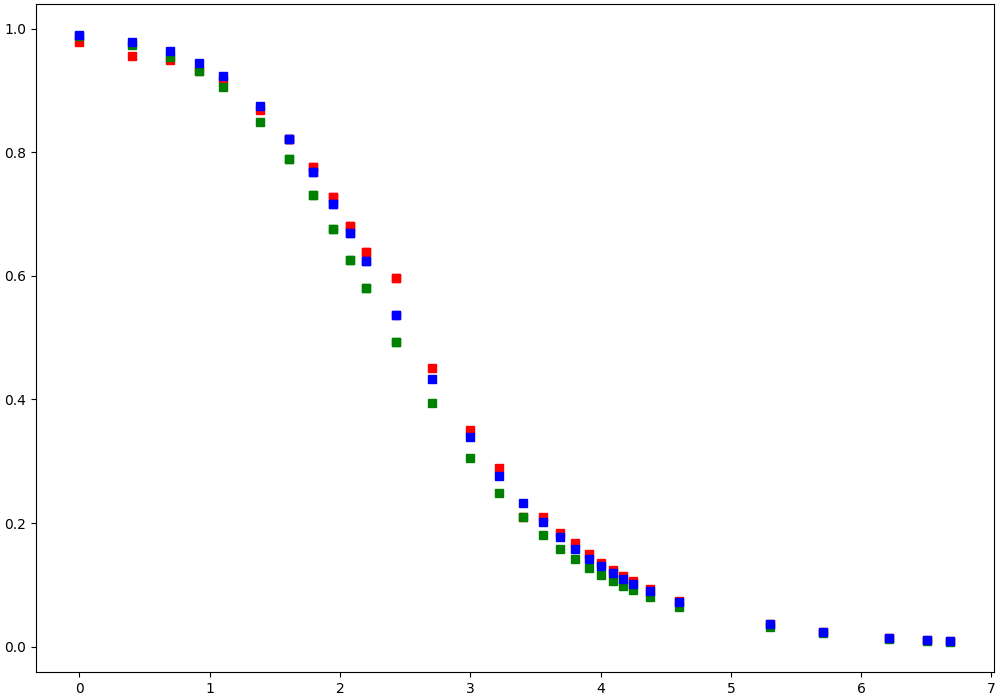
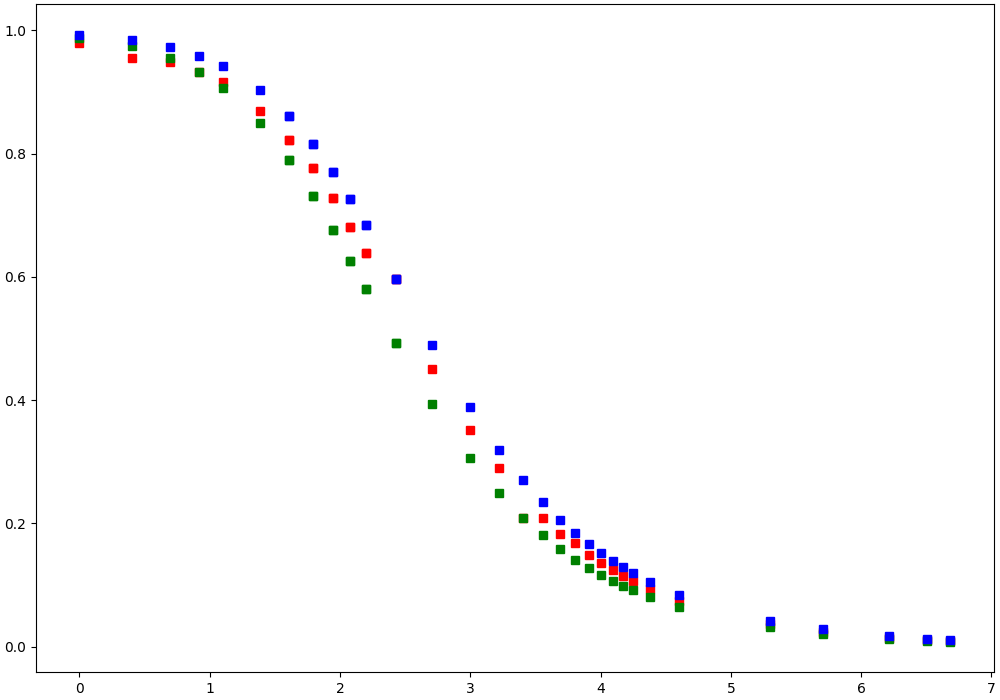
№

diff --git a/3.7.1/5.py b/3.7.1/5.py
@@ -55,7 +55,7 @@ ht2 = list()
 h = 1.5 * 10 ** -3
 a = 45 * 10 ** -3 /2
 s1 = 5.2 * 10 ** 7
-s2 = 4.64 * 10 ** 7
+s2 = 3.96 * 10 ** 7
 u0 = 4 * 3.14 * 10 ** -7
 for i in range(len(v)):
     ht1.append(1 / (math.sqrt(1 + 1 / 4 * ((a * h * s1 * u0 * v[i] *2 *3.14) ** 2))))
